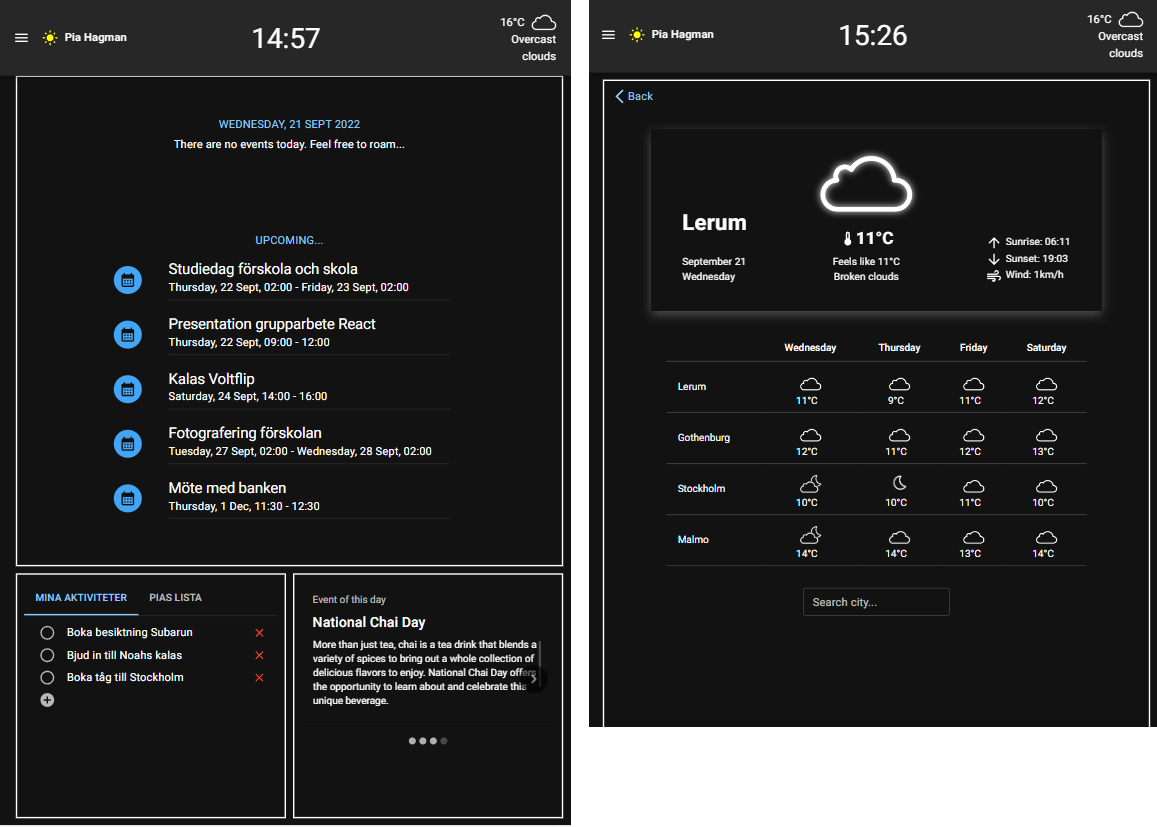
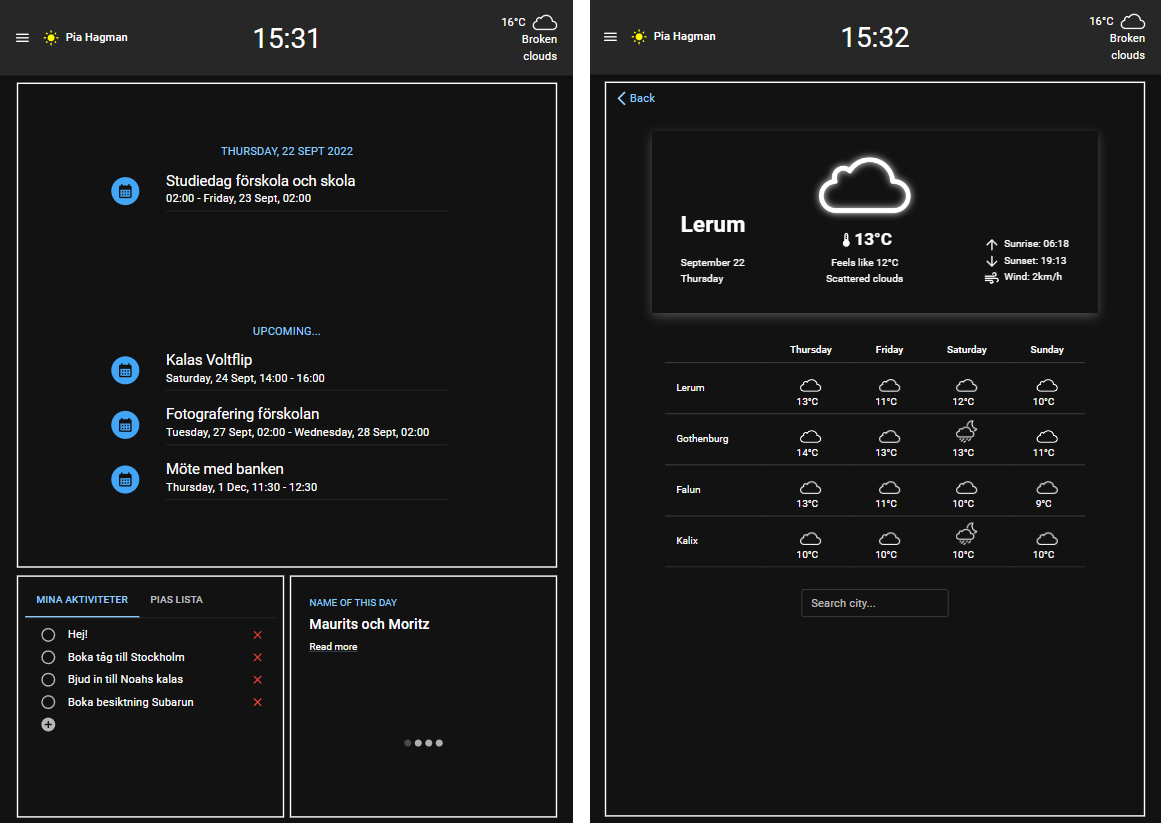
Bug fix in weather.jsx when there is no position. Small changes in readme.

diff --git a/src/components/routes/Weather.jsx b/src/components/routes/Weather.jsx
@@ -16,7 +16,7 @@ import WeatherCard from "../WeatherCard";
 import ArrowBackIosNewIcon from "@mui/icons-material/ArrowBackIosNew";
 import { ColorModeContext } from "../../App";
 
-//sets the dates of today and the upcoming three days
+//sets the dates of today and the upcoming three days to be able to show current upcoming weekdays in table
 const day1 = new Date();
 const day2 = new Date(day1);
 const day3 = new Date(day1);
@@ -27,19 +27,25 @@ day4.setDate(day4.getDate() + 3);
 
 const Weather = () => {
   //Access user position name from query param in url
+  let fetchUserPosition;
   const location = useLocation();
-  const fetchUserPosition = new URLSearchParams(location.search).get(
-    "location"
-  );
-  const { mode } = useContext(ColorModeContext);
+
+  if (location.search === "") {
+    fetchUserPosition = "Stockholm";
+  } else {
+    fetchUserPosition = new URLSearchParams(location.search).get("location");
+  }
+
+  console.log(location.search);
   //Gets colormode from app
+  const { mode } = useContext(ColorModeContext);
 
   //useState for the four initial city forecast
   const [data0, setData0] = useState(undefined);
   const [data1, setData1] = useState([]);
   const [data2, setData2] = useState([]);
   const [data3, setData3] = useState([]);
-  //useState for city names (usePosition is set to "Falun" from URL if there is no userPosition available)
+  //useState for city names (usePosition is set to "Stockholm" if there is no userPosition available)
   const [data1City, setData1City] = useState([]);
   const [data2City, setData2City] = useState([]);
   const [data3City, setData3City] = useState([]);
@@ -57,8 +63,8 @@ const Weather = () => {
   const locations = [
     { name: "", data: data0, cityName: userPosition },
     { name: "Göteborg", data: data1, cityName: data1City },
-    { name: "Stockholm", data: data2, cityName: data2City },
-    { name: "Malmö", data: data3, cityName: data3City },
+    { name: "Falun", data: data2, cityName: data2City },
+    { name: "Kalix", data: data3, cityName: data3City },
   ];
 
   //Urls for fetching data from open weather map API
@@ -99,7 +105,7 @@ const Weather = () => {
     const fetchedData1 = await FetchData(url1);
     const fetchedData2 = await FetchData(url2);
     const fetchedData3 = await FetchData(url3);
-    //Saves city names and sun information for user location
+    //Saves city names and sun (sunset/sunrise) information for user location
     setUserLocationSun({
       sunrise: `${fetchedData0[0].city.sunrise}`,
       sunset: `${fetchedData0[0].city.sunset}`,

diff --git a/src/components/TopBar/WeatherWidget.jsx b/src/components/TopBar/WeatherWidget.jsx
@@ -6,10 +6,9 @@ import { Tooltip } from "@mui/material";
 import { Link } from "react-router-dom";
 
 const WeatherWidget = () => {
-  const [lat, setLat] = useState("59.32932349999999");
+  const [lat, setLat] = useState("59.32932349999999"); //default value if no user position is targeted - targets Stockholm
   const [long, setLong] = useState("18.068580800000063");
   const [data, setData] = useState([]);
-  const [locationName, setLocationName] = useState("Falun");
 
   useEffect(() => {
     fetchDataWithLocation();

diff --git a/README.md b/README.md
@@ -12,7 +12,7 @@
 This is a Home Application built in ReactJS. The purpose of the application is to gather essential services to give you an overview of your google calendar and what's happening today. Currently this application consists of a calender view as well as task lists (todo's), fetched from your existing google-account. It also have features as Fact of the Day and Weather Forecast for your current position. Finally you also have the possibility to search for locale commute traffic from the location of your choice. These features are composed to fit in a one-page UI and it can be customized by you. <br><br>
 <img src="./readme_Images/2.png" width="800px">
 
-In this version of the application there is only one routing, except from index; `/weather`, which is reached by clicking the weather widget in the top left corner. This route is a weather forecast component which includes forecasts of four locations (your position, Stockholm, Gothenburg and Malmo). You can also search for city forecasts of your choice. <br><br>
+In this version of the application there is only one routing, except from index; `/weather`, which is reached by clicking the weather widget in the top right corner. This route is a weather forecast component which includes forecasts of four locations (your position (or Stockholm as default), Gothenburg, Falun and Kalix). You can also search for city forecasts of your choice. <br><br>
 <img src="./readme_Images/1.png" width="800px">
 
 The application is scalable and other nice features to have, for example your unread emails, a component to show Spotify, news updates etc, could be added to the list of components to choose from. <br><br>
@@ -39,5 +39,6 @@ For design and responsive content we have mainly used [MUI](https://mui.com/).
 ### After downloading of project
 
 - Use `npm i` (to install all dependencies) and then `npm start`.
-- You need to accept the app when loging in with your google account.
+- You need to accept the app when logging in with your google account.
 - In order for the "Event of the Day" api call to work you need to go through a proxy. Activate temporary access to the demo server on https://cors-anywhere.herokuapp.com/corsdemo.
+- You need to accept to be tracked by the app to get weather forecast for your position. If not accepted, Stockholm is default position.
